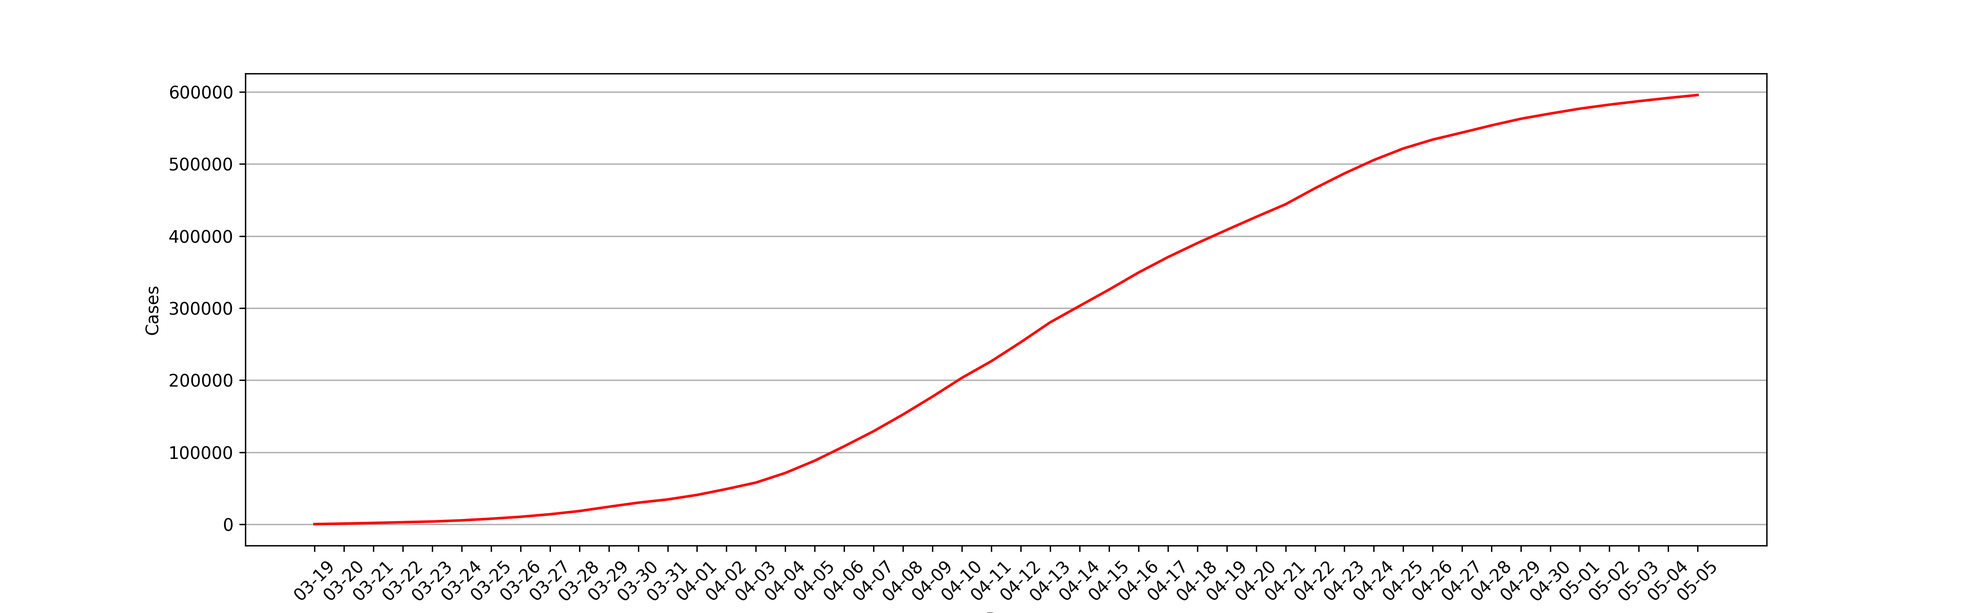
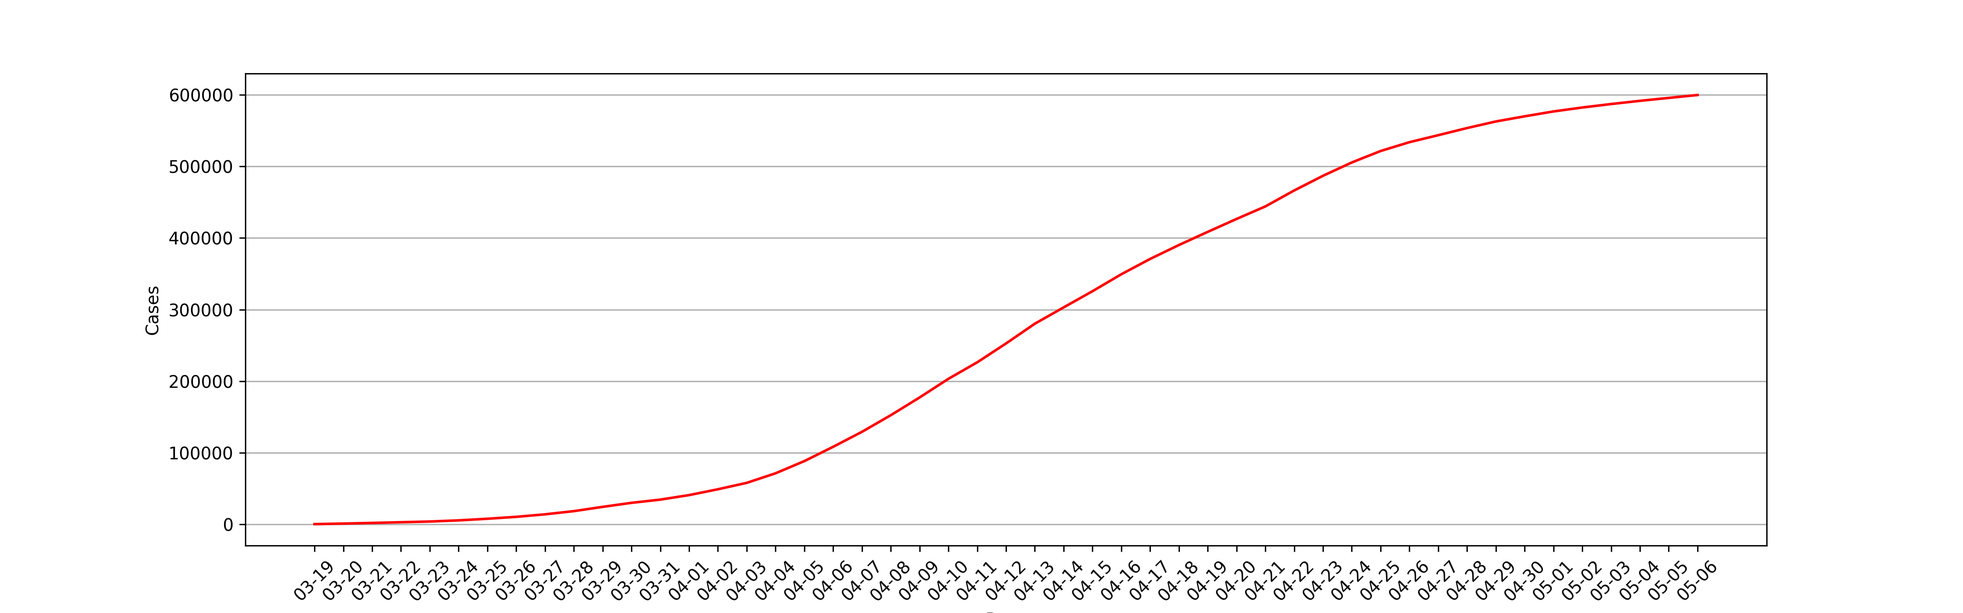
Commit by bot @ 05/07/22 12:15:01

diff --git a/archived_html/3f946e5330262e86e31a86b0eca7961c.html b/archived_html/3f946e5330262e86e31a86b0eca7961c.html
@@ -1,0 +1,151 @@
+<!DOCTYPE html>
+<html lang="zh-Hans">
+<head>
+    <meta charset="utf-8">
+    <meta http-equiv="Content-Security-Policy" content="upgrade-insecure-requests">
+    <meta name="viewport" content="width=device-width, initial-scale=1, maximum-scale=1, user-scalable=no">
+    <meta http-equiv="X-UA-Compatible" content="IE=Edge,chrome=1">
+    <meta http-equiv="Cache-Control" content="no-siteapp" />
+    <meta name="renderer" content="webkit">
+    <meta name="apple-mobile-web-app-capable" content="yes" />
+    <meta name="apple-mobile-web-app-status-bar-style" content="black" />
+    <title>上海2022年5月6日，新增本土新冠肺炎确诊病例253例 新增本土无症状感染者3961例 无新增境外输入性新冠肺炎确诊病例 无新增境外输入性无症状感染者__上海市卫生健康委员会</title>
+    <meta name="ColumnDescription" content="新闻发布"><!-- * -->
+    <meta name="ColumnKeywords" content="新闻发布"><!-- * -->
+    <!--<meta name="ColumnType" content=""> * -->
+    <meta name="ColumnName" content="新闻发布"><!-- * -->
+    <meta name="ArticleTitle" content="上海2022年5月6日，新增本土新冠肺炎确诊病例253例 新增本土无症状感染者3961例 无新增境外输入性新冠肺炎确诊病例 无新增境外输入性无症状感染者"><!-- * -->
+    <meta name="PubDate" content="2022-05-07"><!-- * -->
+    <meta name="ContentSource" content="上海市卫生健康委员会"><!-- * -->
+    <meta name="Author" content="上海市卫生健康委员会">
+    <meta name="Description" content="" />
+    <meta name="applicable-device" content="pc;mobile">
+    <meta name="location" content="北纬N31°11′51.89″ 东经E121°30′5.42″">
+    <!-- min CSS -->
+    <link rel="stylesheet" href="/assets/css/ETUI/ETUI3.min.css">
+    <!-- Custom CSS -->
+    <link rel="stylesheet" href="/assets/plugin/owl/owl.carousel.css">
+    <link rel="stylesheet" href="/assets/css/style.css">
+    <link rel="stylesheet" href="/assets/css/responsive.css">
+    <link rel="stylesheet" href="/assets/css/ETUI/ETUI3.Utility.css">
+    <!-- icons -->
+    <link rel="shortcut icon" href="/assets/img/ico/favicon.png">
+    <!-- 无障碍工具条 -->
+   <!-- <link rel="stylesheet" href="http://www.shanghai.gov.cn/jhelper_V2.0/jhelper_tool_style.css">
+    <script src="http://www.shanghai.gov.cn/jhelper_V2.0/wsj/jhelper_config.js" charset="gb2312"></script>
+    <noscript>不能读取工具条配置</noscript>
+    <script src="http://www.shanghai.gov.cn/jhelper_V2.0/jhelper_2.0.js" charset="gb2312"></script>
+    <noscript>不能读取工具条</noscript> 
+     -->
+    <script type="text/javascript">
+        function onsubmmit(pageIndex){
+            $("#pageIndex").val(1);
+            $("#searchField").val("0");
+            $("#timeScope").val("0");
+            $("#cmsSearchId").val("0");
+            $("#searchForm").submit();
+        }
+        function onselsubmmit(){
+            $("#pageIndex").val(1);
+            $("#searchForm").submit();
+        }
+        function psubmmit(pageIndex){
+            $("#pageIndex").val(pageIndex);
+            $("#searchForm").submit();
+        }
+        // 栏目
+        function chsubmmit(searchChId){
+            $("#pageIndex").val(1);
+            $("#searchField").val("0");
+            $("#timeScope").val("0");
+            $("#cmsSearchId").val(searchChId);
+            $("#searchForm").submit();
+        }
+    </script> 
+    <!-- 无障碍工具条 -->
+</head>
+<body>
+    <div id="accessNull"></div>
+    <div id="container">
+        <div class="channelinfo hidden"></div>
+        <script src="/assets/js/header.js"></script>
+        <div class="main" id="main">
+            <script src="/assets/js/jiansuo.js"></script>
+            <div class="main-container margin-top-15">
+                <div class="container ">
+                    <div class="relitive">
+                        <ol class="breadcrumb">
+                           <span>您现在所在的位置：</span>
+                            <li><a href="/index.html">首页</a></li>
+                            <li class="active">新闻中心</li>
+                           
+                            <li class="active">新闻发布</li>
+                           
+                        </ol>
+                        <div class="date-se">
+                            <i class="iconfont">&#xe60b;</i> <span id="time"></span>
+                        </div>
+                    </div>
+
+                    <div class="Article">
+                        <h2 id="ivs_title" class="Article-title">上海2022年5月6日，新增本土新冠肺炎确诊病例253例 新增本土无症状感染者3961例 无新增境外输入性新冠肺炎确诊病例 无新增境外输入性无症状感染者</br>
+                         <h2 class="Article-title">
+                            <small id="ivs_date" class="Article-time">( 2022-05-07)</small>
+                        </h2>
+                        <div id="ivs_player" style="text-align:center;"></div>
+                        <div id="ivs_content" class="Article_content">
+                           
+                                 <p style="font-size: medium;white-space: normal;margin-top: 10px;text-indent: 40px"><span style="font-size: 20px;font-family: 仿宋_GB2312">市卫健委今早（7日）通报：2022年5月6日0—24时，新增本土新冠肺炎确诊病例253例和无症状感染者3961例，其中175例确诊病例为既往无症状感染者转归，78例确诊病例和3943例无症状感染者在隔离管控中发现。无新增境外输入性新冠肺炎确诊病例和无症状感染者。</span></p><p style="font-size: medium;white-space: normal;margin-top: 10px;text-indent: 40px"><span style="font-size: 20px;font-family: 仿宋_GB2312">2022</span><span style="font-size: 20px;font-family: 仿宋_GB2312">年5月6日0—24时，新增本土新冠肺炎确诊病例253例，含175例由既往无症状感染者转为确诊病例。新增治愈出院1663例。</span></p><p style="font-size: medium;white-space: normal;margin-top: 10px;text-indent: 40px"><strong><span style="font-size: 20px;font-family: 黑体">病例1—病例19</span></strong><span style="font-size: 20px;font-family: 仿宋_GB2312">，居住于浦东新区，</span><strong><span style="font-size: 20px;font-family: 黑体">病例20—病例35</span></strong><span style="font-size: 20px;font-family: 仿宋_GB2312">，居住于黄浦区，</span><strong><span style="font-size: 20px;font-family: 黑体">病例36—病例42</span></strong><span style="font-size: 20px;font-family: 仿宋_GB2312">，居住于徐汇区，</span><strong><span style="font-size: 20px;font-family: 黑体">病例43</span></strong><span style="font-size: 20px;font-family: 仿宋_GB2312">，居住于长宁区，</span><strong><span style="font-size: 20px;font-family: 黑体">病例44</span></strong><span style="font-size: 20px;font-family: 仿宋_GB2312">，居住于静安区，</span><strong><span style="font-size: 20px;font-family: 黑体">病例45、病例46</span></strong><span style="font-size: 20px;font-family: 仿宋_GB2312">，居住于普陀区，</span><strong><span style="font-size: 20px;font-family: 黑体">病例47—病例52</span></strong><span style="font-size: 20px;font-family: 仿宋_GB2312">，居住于虹口区，</span><strong><span style="font-size: 20px;font-family: 黑体">病例53—病例59</span></strong><span style="font-size: 20px;font-family: 仿宋_GB2312">，居住于杨浦区，</span><strong><span style="font-size: 20px;font-family: 黑体">病例60—病例69</span></strong><span style="font-size: 20px;font-family: 仿宋_GB2312">，居住于闵行区，</span><strong><span style="font-size: 20px;font-family: 黑体">病例70—病例72</span></strong><span style="font-size: 20px;font-family: 仿宋_GB2312">，居住于宝山区，</span><strong><span style="font-size: 20px;font-family: 黑体">病例73—病例75</span></strong><span style="font-size: 20px;font-family: 仿宋_GB2312">，居住于松江区，</span><strong><span style="font-size: 20px;font-family: 黑体">病例76、病例77</span></strong><span style="font-size: 20px;font-family: 仿宋_GB2312">，居住于青浦区，</span><strong><span style="font-size: 20px;font-family: 黑体">病例78</span></strong><span style="font-size: 20px;font-family: 仿宋_GB2312">，居住于奉贤区，均为本市闭环隔离管控人员，其间新冠病毒核酸检测结果异常，经疾控中心复核结果为阳性。经市级专家会诊，综合流行病学史、临床症状、实验室检测和影像学检查结果等，诊断为确诊病例。</span></p><p style="font-size: medium;white-space: normal;margin-top: 10px;text-indent: 40px"><strong><span style="font-size: 20px;font-family: 黑体">病例79—病例92</span></strong><span style="font-size: 20px;font-family: 仿宋_GB2312">，居住于浦东新区，</span><strong><span style="font-size: 20px;font-family: 黑体">病例93—病例136</span></strong><span style="font-size: 20px;font-family: 仿宋_GB2312">，居住于黄浦区，</span><strong><span style="font-size: 20px;font-family: 黑体">病例137—病例148</span></strong><span style="font-size: 20px;font-family: 仿宋_GB2312">，居住于徐汇区，</span><strong><span style="font-size: 20px;font-family: 黑体">病例149—病例154</span></strong><span style="font-size: 20px;font-family: 仿宋_GB2312">，居住于长宁区，</span><strong><span style="font-size: 20px;font-family: 黑体">病例155—病例169</span></strong><span style="font-size: 20px;font-family: 仿宋_GB2312">，居住于静安区，</span><strong><span style="font-size: 20px;font-family: 黑体">病例170—病例172</span></strong><span style="font-size: 20px;font-family: 仿宋_GB2312">，居住于普陀区，</span><strong><span style="font-size: 20px;font-family: 黑体">病例173—病例183</span></strong><span style="font-size: 20px;font-family: 仿宋_GB2312">，居住于虹口区，</span><strong><span style="font-size: 20px;font-family: 黑体">病例184—病例206</span></strong><span style="font-size: 20px;font-family: 仿宋_GB2312">，居住于杨浦区，</span><strong><span style="font-size: 20px;font-family: 黑体">病例207—病例224</span></strong><span style="font-size: 20px;font-family: 仿宋_GB2312">，居住于闵行区，</span><strong><span style="font-size: 20px;font-family: 黑体">病例225—病例242</span></strong><span style="font-size: 20px;font-family: 仿宋_GB2312">，居住于宝山区，</span><strong><span style="font-size: 20px;font-family: 黑体">病例243—病例245</span></strong><span style="font-size: 20px;font-family: 仿宋_GB2312">，居住于嘉定区，</span><strong><span style="font-size: 20px;font-family: 黑体">病例246—病例248</span></strong><span style="font-size: 20px;font-family: 仿宋_GB2312">，居住于金山区，</span><strong><span style="font-size: 20px;font-family: 黑体">病例249、病例250</span></strong><span style="font-size: 20px;font-family: 仿宋_GB2312">，居住于松江区，</span><strong><span style="font-size: 20px;font-family: 黑体">病例251</span></strong><span style="font-size: 20px;font-family: 仿宋_GB2312">，居住于青浦区，</span><strong><span style="font-size: 20px;font-family: 黑体">病例252</span></strong><span style="font-size: 20px;font-family: 仿宋_GB2312">，居住于奉贤区，</span><strong><span style="font-size: 20px;font-family: 黑体">病例253</span></strong><span style="font-size: 20px;font-family: 仿宋_GB2312">，居住于崇明区，为此前报告的本土无症状感染者。经市级专家会诊，综合流行病学史、临床症状、实验室检测和影像学检查结果等，诊断为确诊病例。</span></p><p style="font-size: medium;white-space: normal;margin-top: 10px;text-indent: 40px"><span style="font-size: 20px;font-family: 仿宋_GB2312">2022</span><span style="font-size: 20px;font-family: 仿宋_GB2312">年5月6日0—24时，新增本土死亡13例。平均年龄83.8岁，最小年龄62岁，最大年龄95岁。13位患者合并有多种晚期恶性肿瘤和严重的急慢性基础疾病，包括晚期直肠癌、肺癌、颅内恶性肿瘤、慢性淋巴细胞性白血病、急性脑血管意外、急慢性心力衰竭、急性心肌梗死、高血压3级（极高危）、帕金森病、阿尔兹海默症、糖尿病。患者入院后，原发疾病加重，经抢救无效死亡。死亡的直接原因为晚期恶性肿瘤或基础疾病。</span></p><p style="font-size: medium;white-space: normal;margin-top: 10px;text-indent: 40px"><span style="font-size: 20px;font-family: 仿宋_GB2312">2022</span><span style="font-size: 20px;font-family: 仿宋_GB2312">年5月6日0—24时，新增本土无症状感染者3961例。</span></p><p style="font-size: medium;white-space: normal;margin-top: 10px;text-indent: 40px"><strong><span style="font-size: 20px;font-family: 黑体">无症状感染者1—无症状感染者544</span></strong><span style="font-size: 20px;font-family: 仿宋_GB2312">，居住于浦东新区，</span><strong><span style="font-size: 20px;font-family: 黑体">无症状感染者545—无症状感染者1110</span></strong><span style="font-size: 20px;font-family: 仿宋_GB2312">，居住于黄浦区，</span><strong><span style="font-size: 20px;font-family: 黑体">无症状感染者1111—无症状感染者1419</span></strong><span style="font-size: 20px;font-family: 仿宋_GB2312">，居住于徐汇区，</span><strong><span style="font-size: 20px;font-family: 黑体">无症状感染者1420—无症状感染者1483</span></strong><span style="font-size: 20px;font-family: 仿宋_GB2312">，居住于长宁区，</span><strong><span style="font-size: 20px;font-family: 黑体">无症状感染者1484—无症状感染者1951</span></strong><span style="font-size: 20px;font-family: 仿宋_GB2312">，居住于静安区，</span><strong><span style="font-size: 20px;font-family: 黑体">无症状感染者1952—无症状感染者2023</span></strong><span style="font-size: 20px;font-family: 仿宋_GB2312">，居住于普陀区，</span><strong><span style="font-size: 20px;font-family: 黑体">无症状感染者2024—无症状感染者2283</span></strong><span style="font-size: 20px;font-family: 仿宋_GB2312">，居住于虹口区，</span><strong><span style="font-size: 20px;font-family: 黑体">无症状感染者2284—无症状感染者2678</span></strong><span style="font-size: 20px;font-family: 仿宋_GB2312">，居住于杨浦区，</span><strong><span style="font-size: 20px;font-family: 黑体">无症状感染者2679—无症状感染者2959</span></strong><span style="font-size: 20px;font-family: 仿宋_GB2312">，居住于闵行区，</span><strong><span style="font-size: 20px;font-family: 黑体">无症状感染者2960—无症状感染者3438</span></strong><span style="font-size: 20px;font-family: 仿宋_GB2312">，居住于宝山区，</span><strong><span style="font-size: 20px;font-family: 黑体">无症状感染者3439—无症状感染者3636</span></strong><span style="font-size: 20px;font-family: 仿宋_GB2312">，居住于嘉定区，</span><strong><span style="font-size: 20px;font-family: 黑体">无症状感染者3637—无症状感染者3640</span></strong><span style="font-size: 20px;font-family: 仿宋_GB2312">，居住于金山区，</span><strong><span style="font-size: 20px;font-family: 黑体">无症状感染者3641—无症状感染者3659</span></strong><span style="font-size: 20px;font-family: 仿宋_GB2312">，居住于松江区，</span><strong><span style="font-size: 20px;font-family: 黑体">无症状感染者3660—无症状感染者3825</span></strong><span style="font-size: 20px;font-family: 仿宋_GB2312">，居住于青浦区，</span><strong><span style="font-size: 20px;font-family: 黑体">无症状感染者3826—无症状感染者3844</span></strong><span style="font-size: 20px;font-family: 仿宋_GB2312">，居住于奉贤区，</span><strong><span style="font-size: 20px;font-family: 黑体">无症状感染者3845—无症状感染者3943</span></strong><span style="font-size: 20px;font-family: 仿宋_GB2312">，居住于崇明区，</span><span style="font-size: 20px;font-family: 仿宋_GB2312">均为本市闭环隔离管控人员，其间新冠病毒核酸检测结果异常，经疾控中心复核结果为阳性，诊断为无症状感染者。</span></p><p style="font-size: medium;white-space: normal;text-indent: 40px"><strong><span style="font-size: 20px;font-family: 黑体">无症状感染者3944—无症状感染者3950</span></strong><span style="font-size: 20px;font-family: 仿宋_GB2312">，居住于浦东新区，</span><strong><span style="font-size: 20px;font-family: 黑体">无症状感染者3951</span></strong><span style="font-size: 20px;font-family: 仿宋_GB2312">，居住于黄浦区，</span><strong><span style="font-size: 20px;font-family: 黑体">无症状感染者3952、无症状感染者3953</span></strong><span style="font-size: 20px;font-family: 仿宋_GB2312">，居住于徐汇区，</span><strong><span style="font-size: 20px;font-family: 黑体">无症状感染者3954、无症状感染者3955</span></strong><span style="font-size: 20px;font-family: 仿宋_GB2312">，居住于虹口区，</span><strong><span style="font-size: 20px;font-family: 黑体">无症状感染者3956、无症状感染者3957</span></strong><span style="font-size: 20px;font-family: 仿宋_GB2312">，居住于宝山区，</span><strong><span style="font-size: 20px;font-family: 黑体">无症状感染者3958</span></strong><span style="font-size: 20px;font-family: 仿宋_GB2312">，居住于金山区，</span><strong><span style="font-size: 20px;font-family: 黑体">无症状感染者3959—无症状感染者3961</span></strong><span style="font-size: 20px;font-family: 仿宋_GB2312">，居住于松江区，</span><span style="font-size: 20px;font-family: 仿宋_GB2312">在风险人群筛查中发现新冠病毒核酸检测结果异常，即被隔离管控。经疾控中心复核结果为阳性，诊断为无症状感染者。</span></p><p style="font-size: medium;white-space: normal;text-indent: 40px"><span style="font-size: 20px;font-family: 仿宋_GB2312">2022</span><span style="font-size: 20px;font-family: 仿宋_GB2312">年5月6日0—24时，</span><span style="font-size: 20px;font-family: 仿宋_GB2312">无新增境外输入性新冠肺炎确诊病例</span><span style="font-size: 20px;font-family: 仿宋_GB2312">。治愈出院1例，来自加拿大。</span></p><p style="font-size: medium;white-space: normal;text-indent: 40px"><span style="font-size: 20px;font-family: 仿宋_GB2312">2022</span><span style="font-size: 20px;font-family: 仿宋_GB2312">年5月6日0—24时，无新增境外输入性无症状感染者。</span></p><p style="font-size: medium;white-space: normal;text-indent: 40px"><span style="font-size: 20px;font-family: 仿宋_GB2312">2022</span><span style="font-size: 20px;font-family: 仿宋_GB2312">年5月6日0—24时，解除医学观察本土无症状感染者11626例。</span></p><p style="font-size: medium;white-space: normal;margin-top: 10px;text-indent: 40px;vertical-align: baseline"><span style="font-size: 20px;font-family: 仿宋_GB2312">2022</span><span style="font-size: 20px;font-family: 仿宋_GB2312">年2月26日0时至2022年5月6日24时，累计本土确诊55384例，治愈出院47157例，在院治疗7699例（其中重型464例，危重型87例），死亡528例。现有待排查的疑似病例0例。</span></p><p style="font-size: medium;white-space: normal;margin-top: 10px;text-indent: 40px;vertical-align: baseline"><span style="font-size: 20px;font-family: 仿宋_GB2312">截至2022年5月6日24时，累计境外输入性确诊病例4590例，出院4580例，在院治疗10例。现有待排查的疑似病例1例。</span></p><p style="font-size: medium;white-space: normal;margin-top: 10px;text-indent: 40px;vertical-align: baseline"><span style="font-size: 20px;font-family: 仿宋_GB2312"><br/></span></p><table align="center" cellspacing="0" cellpadding="0" width="544"><tbody><tr style="height: 24px" class="firstRow"><td width="379" colspan="2" style="border-width: 1px; border-color: windowtext; padding: 0px 7px; border-style: solid;" height="24"><p style="text-align: center;vertical-align: baseline"><strong><span style="font-size: 19px;font-family: 仿宋_GB2312">区域</span></strong></p></td><td width="165" style="border-width: 1px; border-top-color: windowtext; border-right-color: windowtext; border-bottom-color: windowtext; border-style: solid; border-left-color: initial; padding: 0px 7px;" height="24"><p style="text-align: center;vertical-align: baseline"><strong><span style="font-size: 19px;font-family: 仿宋_GB2312">在院治疗确诊病例</span></strong></p></td></tr><tr style="height: 42px"><td width="213" rowspan="5" style="border-width: 1px; border-right-color: windowtext; border-bottom-color: windowtext; border-left-color: windowtext; border-style: solid; border-top-color: initial; padding: 0px 7px;" height="42"><p style="text-align: center;vertical-align: baseline"><span style="font-size: 19px;font-family: 仿宋_GB2312">境外输入人员</span></p><p style="text-align: center;vertical-align: baseline"><span style="font-size: 19px;font-family: 仿宋_GB2312">（按输入地分）</span></p></td><td width="165" valign="top" style="border-width: 1px; border-style: solid; border-top-color: initial; border-left-color: initial; border-bottom-color: windowtext; border-right-color: windowtext; padding: 0px 7px;" height="42"><p style="text-align: center;vertical-align: middle"><span style="font-size: 19px;font-family: 仿宋_GB2312">加拿大</span></p></td><td width="165" valign="top" style="border-width: 1px; border-style: solid; border-top-color: initial; border-left-color: initial; border-bottom-color: windowtext; border-right-color: windowtext; padding: 0px 7px;" height="42"><p style="text-align: center;vertical-align: middle"><span style="font-size: 19px;font-family: 仿宋_GB2312">6</span></p></td></tr><tr style="height: 33px"><td width="165" valign="top" style="border-width: 1px; border-style: solid; border-top-color: initial; border-left-color: initial; border-bottom-color: windowtext; border-right-color: windowtext; padding: 0px 7px;" height="33"><p style="text-align: center;vertical-align: middle"><span style="font-size: 19px;font-family: 仿宋_GB2312">科特迪瓦</span></p></td><td width="165" valign="top" style="border-width: 1px; border-style: solid; border-top-color: initial; border-left-color: initial; border-bottom-color: windowtext; border-right-color: windowtext; padding: 0px 7px;" height="33"><p style="text-align: center;vertical-align: middle"><span style="font-size: 19px;font-family: 仿宋_GB2312">1</span></p></td></tr><tr style="height: 33px"><td width="165" valign="top" style="border-width: 1px; border-style: solid; border-top-color: initial; border-left-color: initial; border-bottom-color: windowtext; border-right-color: windowtext; padding: 0px 7px;" height="33"><p style="text-align: center;vertical-align: middle"><span style="font-size: 19px;font-family: 仿宋_GB2312">法国</span></p></td><td width="165" valign="top" style="border-width: 1px; border-style: solid; border-top-color: initial; border-left-color: initial; border-bottom-color: windowtext; border-right-color: windowtext; padding: 0px 7px;" height="33"><p style="text-align: center;vertical-align: middle"><span style="font-size: 19px;font-family: 仿宋_GB2312">1</span></p></td></tr><tr style="height: 33px"><td width="165" valign="top" style="border-width: 1px; border-style: solid; border-top-color: initial; border-left-color: initial; border-bottom-color: windowtext; border-right-color: windowtext; padding: 0px 7px;" height="33"><p style="text-align: center;vertical-align: middle"><span style="font-size: 19px;font-family: 仿宋_GB2312">美国</span></p></td><td width="165" valign="top" style="border-width: 1px; border-style: solid; border-top-color: initial; border-left-color: initial; border-bottom-color: windowtext; border-right-color: windowtext; padding: 0px 7px;" height="33"><p style="text-align: center;vertical-align: middle"><span style="font-size: 19px;font-family: 仿宋_GB2312">1</span></p></td></tr><tr style="height: 33px"><td width="165" valign="top" style="border-width: 1px; border-style: solid; border-top-color: initial; border-left-color: initial; border-bottom-color: windowtext; border-right-color: windowtext; padding: 0px 7px;" height="33"><p style="text-align: center;vertical-align: middle"><span style="font-size: 19px;font-family: 仿宋_GB2312">乌干达</span></p></td><td width="165" valign="top" style="border-width: 1px; border-style: solid; border-top-color: initial; border-left-color: initial; border-bottom-color: windowtext; border-right-color: windowtext; padding: 0px 7px;" height="33"><p style="text-align: center;vertical-align: middle"><span style="font-size: 19px;font-family: 仿宋_GB2312">1</span></p></td></tr><tr style="height: 33px"><td width="213" rowspan="16" style="border-width: 1px; border-right-color: windowtext; border-bottom-color: windowtext; border-left-color: windowtext; border-style: solid; border-top-color: initial; padding: 0px 7px;" height="33"><p style="text-indent: 19px;vertical-align: baseline"><span style="font-size: 19px;font-family: 仿宋_GB2312">本市居住或工作地</span></p></td><td width="165" style="border-width: 1px; border-style: solid; border-top-color: initial; border-left-color: initial; border-bottom-color: windowtext; border-right-color: windowtext; padding: 0px 7px;" height="33"><p style="text-align: center;vertical-align: middle"><span style="font-size: 19px;font-family: 仿宋_GB2312">浦东</span></p></td><td width="165" style="border-width: 1px; border-style: solid; border-top-color: initial; border-left-color: initial; border-bottom-color: windowtext; border-right-color: windowtext; padding: 0px 7px;" height="33"><p style="text-align: center"><span style="font-size: 19px;font-family: 仿宋_GB2312">978</span></p></td></tr><tr style="height: 33px"><td width="165" style="border-width: 1px; border-style: solid; border-top-color: initial; border-left-color: initial; border-bottom-color: windowtext; border-right-color: windowtext; padding: 0px 7px;" height="33"><p style="text-align: center;vertical-align: middle"><span style="font-size: 19px;font-family: 仿宋_GB2312">黄浦</span></p></td><td width="165" style="border-width: 1px; border-style: solid; border-top-color: initial; border-left-color: initial; border-bottom-color: windowtext; border-right-color: windowtext; padding: 0px 7px;" height="33"><p style="text-align: center"><span style="font-size: 19px;font-family: 仿宋_GB2312">1101</span></p></td></tr><tr style="height: 33px"><td width="165" style="border-width: 1px; border-style: solid; border-top-color: initial; border-left-color: initial; border-bottom-color: windowtext; border-right-color: windowtext; padding: 0px 7px;" height="33"><p style="text-align: center;vertical-align: middle"><span style="font-size: 19px;font-family: 仿宋_GB2312">徐汇</span></p></td><td width="165" style="border-width: 1px; border-style: solid; border-top-color: initial; border-left-color: initial; border-bottom-color: windowtext; border-right-color: windowtext; padding: 0px 7px;" height="33"><p style="text-align: center"><span style="font-size: 19px;font-family: 仿宋_GB2312">1027</span></p></td></tr><tr style="height: 33px"><td width="165" style="border-width: 1px; border-style: solid; border-top-color: initial; border-left-color: initial; border-bottom-color: windowtext; border-right-color: windowtext; padding: 0px 7px;" height="33"><p style="text-align: center;vertical-align: middle"><span style="font-size: 19px;font-family: 仿宋_GB2312">长宁</span></p></td><td width="165" style="border-width: 1px; border-style: solid; border-top-color: initial; border-left-color: initial; border-bottom-color: windowtext; border-right-color: windowtext; padding: 0px 7px;" height="33"><p style="text-align: center"><span style="font-size: 19px;font-family: 仿宋_GB2312">511</span></p></td></tr><tr style="height: 33px"><td width="165" style="border-width: 1px; border-style: solid; border-top-color: initial; border-left-color: initial; border-bottom-color: windowtext; border-right-color: windowtext; padding: 0px 7px;" height="33"><p style="text-align: center;vertical-align: middle"><span style="font-size: 19px;font-family: 仿宋_GB2312">静安</span></p></td><td width="165" style="border-width: 1px; border-style: solid; border-top-color: initial; border-left-color: initial; border-bottom-color: windowtext; border-right-color: windowtext; padding: 0px 7px;" height="33"><p style="text-align: center"><span style="font-size: 19px;font-family: 仿宋_GB2312">787</span></p></td></tr><tr style="height: 33px"><td width="165" style="border-width: 1px; border-style: solid; border-top-color: initial; border-left-color: initial; border-bottom-color: windowtext; border-right-color: windowtext; padding: 0px 7px;" height="33"><p style="text-align: center;vertical-align: middle"><span style="font-size: 19px;font-family: 仿宋_GB2312">普陀</span></p></td><td width="165" style="border-width: 1px; border-style: solid; border-top-color: initial; border-left-color: initial; border-bottom-color: windowtext; border-right-color: windowtext; padding: 0px 7px;" height="33"><p style="text-align: center"><span style="font-size: 19px;font-family: 仿宋_GB2312">456</span></p></td></tr><tr style="height: 33px"><td width="165" style="border-width: 1px; border-style: solid; border-top-color: initial; border-left-color: initial; border-bottom-color: windowtext; border-right-color: windowtext; padding: 0px 7px;" height="33"><p style="text-align: center;vertical-align: middle"><span style="font-size: 19px;font-family: 仿宋_GB2312">虹口</span></p></td><td width="165" style="border-width: 1px; border-style: solid; border-top-color: initial; border-left-color: initial; border-bottom-color: windowtext; border-right-color: windowtext; padding: 0px 7px;" height="33"><p style="text-align: center"><span style="font-size: 19px;font-family: 仿宋_GB2312">789</span></p></td></tr><tr style="height: 33px"><td width="165" style="border-width: 1px; border-style: solid; border-top-color: initial; border-left-color: initial; border-bottom-color: windowtext; border-right-color: windowtext; padding: 0px 7px;" height="33"><p style="text-align: center;vertical-align: middle"><span style="font-size: 19px;font-family: 仿宋_GB2312">杨浦</span></p></td><td width="165" style="border-width: 1px; border-style: solid; border-top-color: initial; border-left-color: initial; border-bottom-color: windowtext; border-right-color: windowtext; padding: 0px 7px;" height="33"><p style="text-align: center"><span style="font-size: 19px;font-family: 仿宋_GB2312">723</span></p></td></tr><tr style="height: 33px"><td width="165" style="border-width: 1px; border-style: solid; border-top-color: initial; border-left-color: initial; border-bottom-color: windowtext; border-right-color: windowtext; padding: 0px 7px;" height="33"><p style="text-align: center;vertical-align: middle"><span style="font-size: 19px;font-family: 仿宋_GB2312">闵行</span></p></td><td width="165" style="border-width: 1px; border-style: solid; border-top-color: initial; border-left-color: initial; border-bottom-color: windowtext; border-right-color: windowtext; padding: 0px 7px;" height="33"><p style="text-align: center"><span style="font-size: 19px;font-family: 仿宋_GB2312">587</span></p></td></tr><tr style="height: 33px"><td width="165" style="border-width: 1px; border-style: solid; border-top-color: initial; border-left-color: initial; border-bottom-color: windowtext; border-right-color: windowtext; padding: 0px 7px;" height="33"><p style="text-align: center;vertical-align: middle"><span style="font-size: 19px;font-family: 仿宋_GB2312">宝山</span></p></td><td width="165" style="border-width: 1px; border-style: solid; border-top-color: initial; border-left-color: initial; border-bottom-color: windowtext; border-right-color: windowtext; padding: 0px 7px;" height="33"><p style="text-align: center"><span style="font-size: 19px;font-family: 仿宋_GB2312">425</span></p></td></tr><tr style="height: 33px"><td width="165" style="border-width: 1px; border-style: solid; border-top-color: initial; border-left-color: initial; border-bottom-color: windowtext; border-right-color: windowtext; padding: 0px 7px;" height="33"><p style="text-align: center;vertical-align: middle"><span style="font-size: 19px;font-family: 仿宋_GB2312">嘉定</span></p></td><td width="165" style="border-width: 1px; border-style: solid; border-top-color: initial; border-left-color: initial; border-bottom-color: windowtext; border-right-color: windowtext; padding: 0px 7px;" height="33"><p style="text-align: center"><span style="font-size: 19px;font-family: 仿宋_GB2312">10</span></p></td></tr><tr style="height: 33px"><td width="165" style="border-width: 1px; border-style: solid; border-top-color: initial; border-left-color: initial; border-bottom-color: windowtext; border-right-color: windowtext; padding: 0px 7px;" height="33"><p style="text-align: center;vertical-align: middle"><span style="font-size: 19px;font-family: 仿宋_GB2312">金山</span></p></td><td width="165" style="border-width: 1px; border-style: solid; border-top-color: initial; border-left-color: initial; border-bottom-color: windowtext; border-right-color: windowtext; padding: 0px 7px;" height="33"><p style="text-align: center"><span style="font-size: 19px;font-family: 仿宋_GB2312">7</span></p></td></tr><tr style="height: 33px"><td width="165" style="border-width: 1px; border-style: solid; border-top-color: initial; border-left-color: initial; border-bottom-color: windowtext; border-right-color: windowtext; padding: 0px 7px;" height="33"><p style="text-align: center;vertical-align: middle"><span style="font-size: 19px;font-family: 仿宋_GB2312">松江</span></p></td><td width="165" style="border-width: 1px; border-style: solid; border-top-color: initial; border-left-color: initial; border-bottom-color: windowtext; border-right-color: windowtext; padding: 0px 7px;" height="33"><p style="text-align: center"><span style="font-size: 19px;font-family: 仿宋_GB2312">20</span></p></td></tr><tr style="height: 33px"><td width="165" style="border-width: 1px; border-style: solid; border-top-color: initial; border-left-color: initial; border-bottom-color: windowtext; border-right-color: windowtext; padding: 0px 7px;" height="33"><p style="text-align: center;vertical-align: middle"><span style="font-size: 19px;font-family: 仿宋_GB2312">青浦</span></p></td><td width="165" style="border-width: 1px; border-style: solid; border-top-color: initial; border-left-color: initial; border-bottom-color: windowtext; border-right-color: windowtext; padding: 0px 7px;" height="33"><p style="text-align: center"><span style="font-size: 19px;font-family: 仿宋_GB2312">40</span></p></td></tr><tr style="height: 33px"><td width="165" style="border-width: 1px; border-style: solid; border-top-color: initial; border-left-color: initial; border-bottom-color: windowtext; border-right-color: windowtext; padding: 0px 7px;" height="33"><p style="text-align: center;vertical-align: middle"><span style="font-size: 19px;font-family: 仿宋_GB2312">奉贤</span></p></td><td width="165" style="border-width: 1px; border-style: solid; border-top-color: initial; border-left-color: initial; border-bottom-color: windowtext; border-right-color: windowtext; padding: 0px 7px;" height="33"><p style="text-align: center"><span style="font-size: 19px;font-family: 仿宋_GB2312">79</span></p></td></tr><tr style="height: 33px"><td width="165" style="border-width: 1px; border-style: solid; border-top-color: initial; border-left-color: initial; border-bottom-color: windowtext; border-right-color: windowtext; padding: 0px 7px;" height="33"><p style="text-align: center;vertical-align: middle"><span style="font-size: 19px;font-family: 仿宋_GB2312">崇明</span></p></td><td width="165" style="border-width: 1px; border-style: solid; border-top-color: initial; border-left-color: initial; border-bottom-color: windowtext; border-right-color: windowtext; padding: 0px 7px;" height="33"><p style="text-align: center"><span style="font-size: 19px;font-family: 仿宋_GB2312">159</span></p></td></tr><tr style="height: 33px"><td width="379" colspan="2" style="border-width: 1px; border-right-color: windowtext; border-bottom-color: windowtext; border-left-color: windowtext; border-style: solid; border-top-color: initial; padding: 0px 7px;" height="33"><p style="text-align: center;vertical-align: baseline"><span style="font-size: 19px;font-family: 仿宋_GB2312">合计</span></p></td><td width="165" style="border-width: 1px; border-style: solid; border-top-color: initial; border-left-color: initial; border-bottom-color: windowtext; border-right-color: windowtext; padding: 0px 7px;" height="33"><p style="text-align: center;vertical-align: baseline"><span style="font-size: 19px;font-family: 仿宋_GB2312">7709</span></p></td></tr></tbody></table><p style="font-size: medium;white-space: normal;margin-top: 10px;text-indent: 43px;vertical-align: baseline"><span style="font-size: 21px;font-family: Calibri, sans-serif">&nbsp;</span></p><p style="font-size: medium;white-space: normal;margin-top: 10px;text-indent: 43px;vertical-align: baseline"><span style="font-size: 21px;font-family: Calibri, sans-serif">&nbsp;</span></p><p><br/></p>
+                        </div>
+                        </div>
+                    </div>
+                </div>
+            </div>
+        </div>
+        <script src="/assets/js/footer.js"></script>
+        </div>
+    <!--Main JS-->
+    <script src="/assets/js/ETUI/jquery.min.1.12.4.js"></script>
+    <!--[if lt IE 9]>
+    <script src="/assets/js/ETUI/html5shiv.min.js"></script>
+    <script src="/assets/js/ETUI/respond.min.js"></script>
+    <![endif]-->
+    <script src="/assets/js/ETUI/ETUI3.min.js"></script>
+    <script src="/assets/plugin/owl/owl.carousel.min.js"></script>
+    <!--Custom JS-->
+    <script src="/assets/js/main.js"></script>
+    <script src="/assets/js/language.js"></script>
+    <!-- <script src="/assets/js/Time.js"></script> -->
+    <!--
+  <script src="/assets/js/jhelper_config.js" charset="gb2312"></script>
+<script type="text/javascript" src="https://jhelper.shanghai.gov.cn/publicJS/3100000010.js"></script>
+-->
+<script src="https://wsjkw.sh.gov.cn/wza/jhelper_config.js" charset="gb2312"></script>
+    <script type="text/javascript" src="http://jhelper.shanghai.gov.cn/publicJS/3100000010.js"></script>
+   <!-- <script type="text/javascript" src="http://voice.ewdcloud.com.cn:9292/js/ew_msc.js"></script>-->
+    <script>
+        jQuery(document).ready(function () {
+            Main.init();
+        });
+        jQuery(document).ready(function () {
+	        getToolbarMod();
+        });
+    </script>
+    <script>
+        function currentTime(){
+            var d = new Date(),str = '';
+            str += d.getFullYear()+'年';
+            str  += d.getMonth() + 1+'月';
+            str  += d.getDate()+'日';
+            var a = new Array("日", "一", "二", "三", "四", "五", "六");
+            var week = new Date().getDay();
+            var tody = "星期"+ a[week];
+            str +=' ';
+            str  += tody ;
+            return str;
+
+        }
+        setInterval(function(){$('#time').html(currentTime)},1000);
+    </script>
+</body>
+</html>

diff --git a/README.md b/README.md
@@ -14,6 +14,7 @@ This project will be updated every day before Shanghai reopens. JSON files with 
 
 | Date/Details | New Cases  | Deaths | Confirmed Cases | Asymptomatic Cases | A2C Cases(*) |
 | ---- | ---------- | ---------- | ---------------- | ----------------- | ---------------------------- |
+| 2022-05-06 | 4039 | 13 | 253 | 3961 | 175 |
 | 2022-05-05 | 4088 | 12 | 245 | 4024 | 181 |
 | 2022-05-04 | 4466 | 13 | 261 | 4390 | 185 |
 | 2022-05-03 | 4831 | 16 | 260 | 4722 | 151 |
@@ -71,6 +72,7 @@ This project will be updated every day before Shanghai reopens. JSON files with 
 
 | Date | Total Cases  | Total Deaths | Case‑Fatality |
 | ---- | ---------- | ---------- | ---------- |
+| 2022-05-06 | 599620 | 503 | 0.0839% |
 | 2022-05-05 | 595581 | 490 | 0.0823% |
 | 2022-05-04 | 591493 | 478 | 0.0808% |
 | 2022-05-03 | 587027 | 465 | 0.0792% |
